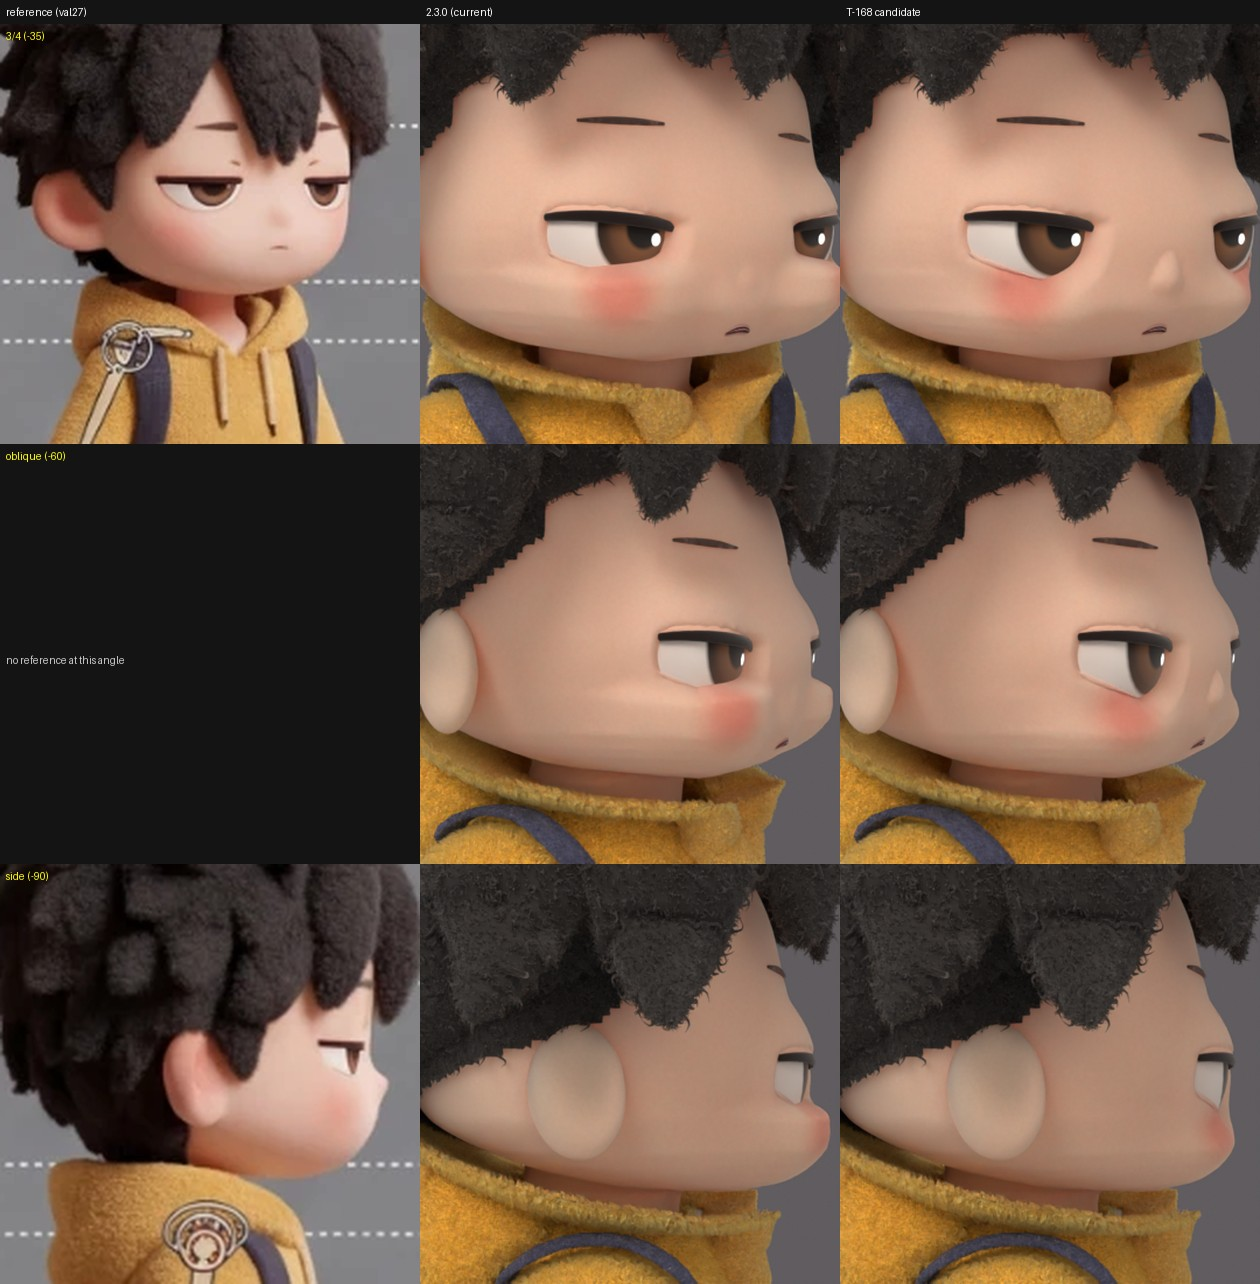
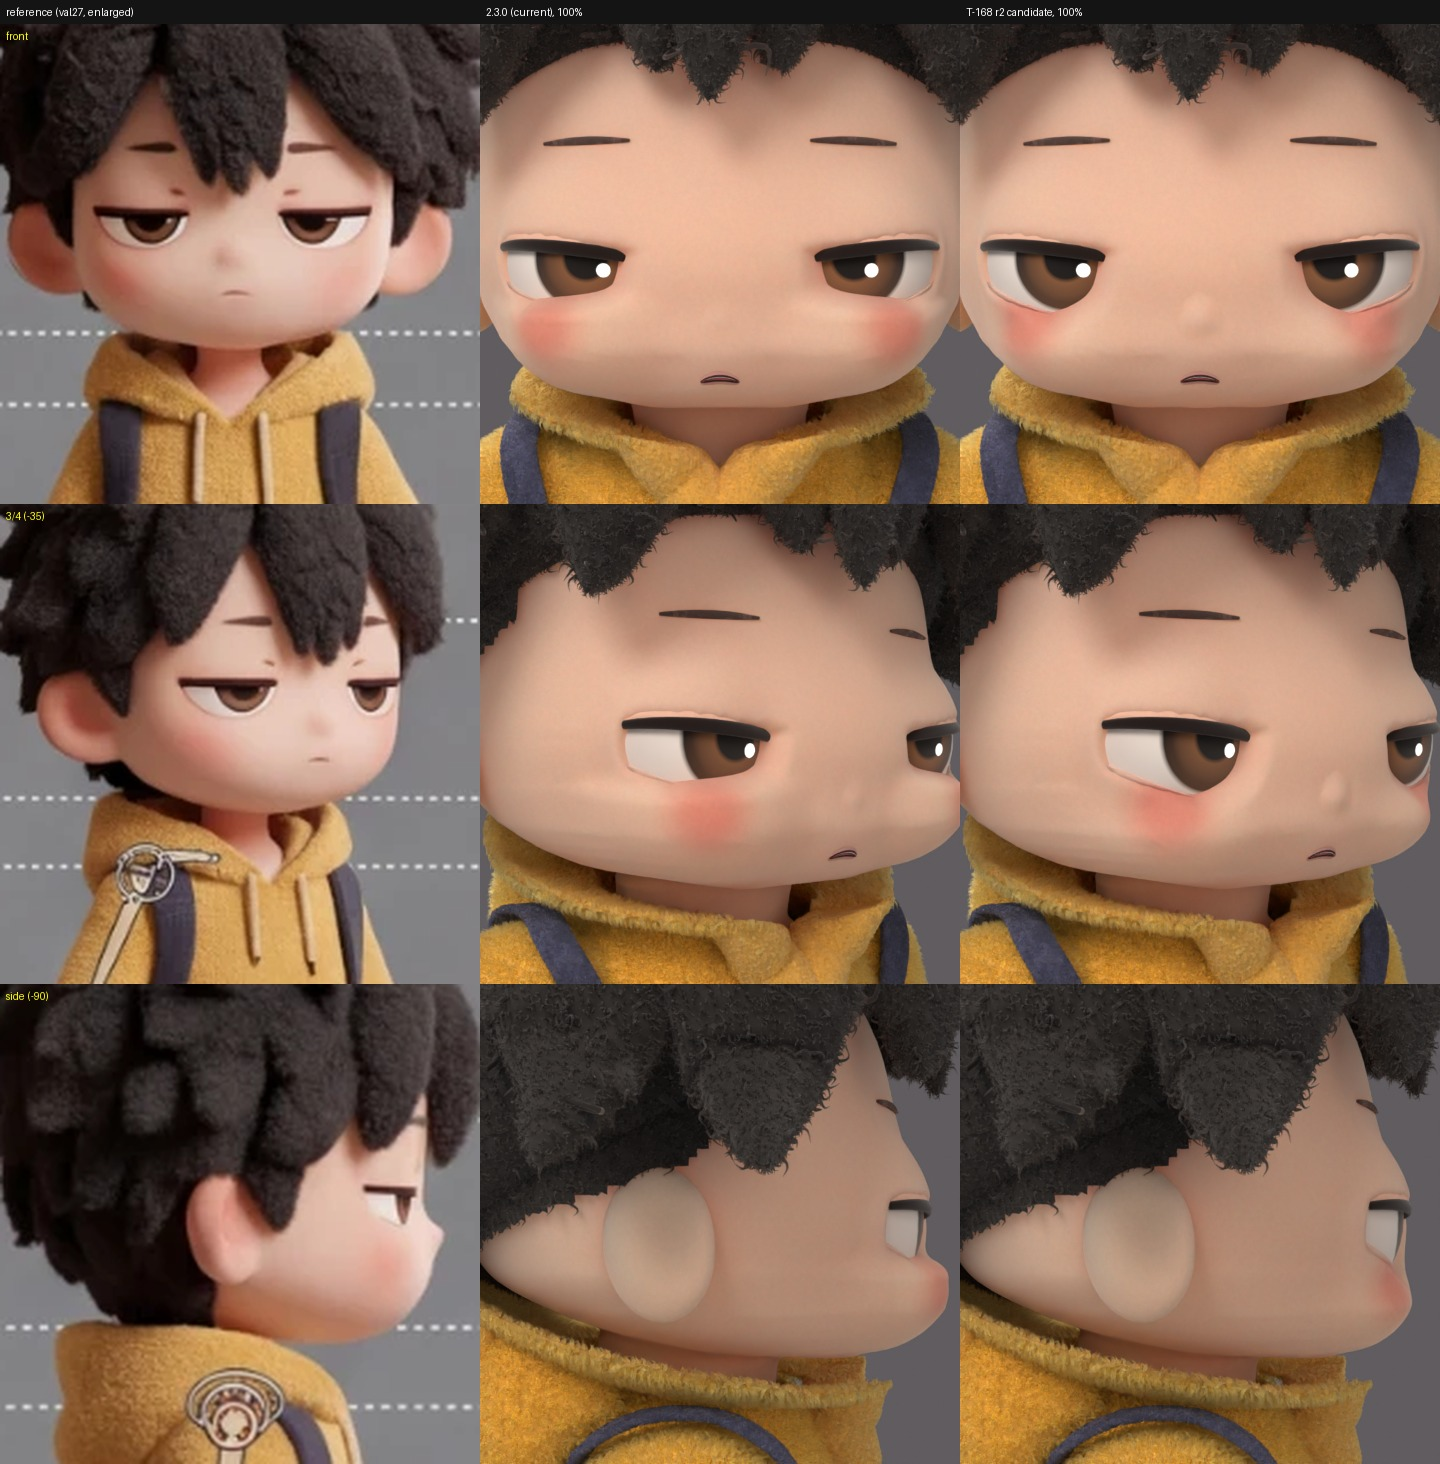
T-168 r2: strict sheet, 100% close-ups (front, 3/4, side) and README
Claude-Session: https://claude.ai/code/session_01NPjxePRrEKBwUxehDu9SQD

diff --git a/docs/evaluation/characters/T-168/README.md b/docs/evaluation/characters/T-168/README.md
@@ -28,35 +28,39 @@ Workbench at yaw -35 / -60 / -90 (`diagnosis/diag.py`); silhouette extent of the
 ## 2. Change
 Generator (opt-in, defaults unchanged):
 - `pipeline/charsys/face_v3/lower_face.py`: `cheek_pad_top_fade_m` (default 0.015 = the previous constant).
-- `pipeline/charsys/face_features.py` `build_nose`: nose type `upturned` (tip with a soft bridge above and a short
+- `pipeline/charsys/face_features.py` `build_nose` only: nose type `upturned` (tip with a soft bridge above and a short
   underside; `size_m, height_m, bridge_m, under_m, tip_up_m, bridge_narrow, tip_power`).
-- `pipeline/charsys/tests/test_face_t168.py` (new; **not registered** in tools/check_all.py, outside my write-set).
+- `pipeline/charsys/tests/test_face_t168.py` (new), registered in `tools/check_all.py` (approved ~15:30 CET).
 
-Candidate data `boy_yellow_hoodie.T-168.override.json` (on the 2.3.0 spec):
+Candidate data `boy_yellow_hoodie.T-168.override.json` (on the 2.3.0 spec), r2 after the owner review ~15:30 CET:
 - cheek pad 16 -> 10 mm, radius 70 -> 60 mm, centre 35 -> 45 mm below the eye, top fade 15 -> 45 mm;
-  cheek_fullness 6 -> 4 mm; `lower_face_recede_m` 8 mm from 25 mm below the eye (existing face.shape option; the
-  head profile rows did not need to change).
-- nose `small_round` 9 / 1.6 mm -> `upturned` 13 mm half width, 5.5 mm high.
+  cheek_fullness 6 -> 4 mm; `lower_face_recede_m` 3 mm from 30 mm below the eye (r1: 8 mm from 25 mm; existing
+  face.shape option, data only; the head profile rows did not need to change).
+- nose `small_round` 9 / 1.6 mm -> `upturned` as a soft nub: 10 mm half width, 3.5 mm high, round dome
+  (r1: 13 / 5.5 mm, read as a cone at 3/4).
 
-## 3. Evidence
+## 3. Evidence (r2)
 - Strict sheet: `boy_2.3.0_vs_T-168_strict.jpg` (recipe `boy_2.3.0_vs_T-168.recipe.json`, preview passed, Cycles 16 spp).
-- Side / oblique / 3/4 close-ups, same rig and settings: `boy_closeups_2.3.0_vs_T-168.jpg`
-  (rows: 3/4 -35, oblique -60, side -90; columns: reference, 2.3.0, T-168).
-- Front: face layout, eyes, mouth, hair unchanged; cheeks slightly slimmer low down; the nose is now visible.
+- 100 % close-ups, same rig and settings, 480 px renders pasted unscaled: `boy_closeups_2.3.0_vs_T-168.jpg`
+  (rows: front, 3/4 -35, side -90; columns: val27 reference (enlarged, 210-240 px source), 2.3.0, T-168 r2).
+- Reading: the ledge under the eye is gone at 3/4; the side profile has no shelf and keeps a round mouth/chin line
+  behind a small nose tip, close to val27_side_right; front: layout, eyes, mouth, hair unchanged, cheeks slightly
+  slimmer low down, nose a soft nub. Remaining difference to the refs: the boy's lower face is still deeper
+  (chin further forward) than val27 in the side view; that is head data, not changed here.
+- The table in section 1 was measured on the r1 shape (recede 8 mm); r2 only changes the recede and the nose.
 
 ## 4. Tests
-- `python3 pipeline/charsys/tests/test_face_t168.py --blender blender`: 11/11.
-- Default unchanged: 2.3.0 rebuilt with the edited code vs a build from the unedited T-155 branch,
-  `mesh_hash_strict.py`: 222 of 223 objects identical (head/body_skin included); `lid_upper.R` differs, which is the
-  known run-to-run lid drift (T-158; the T-155 branch build does not have the deterministic-build fix), not this code
-  (the new branches are not reached without the new keys).
-- test_face_r5 9/9, test_guard_allowlist 25/25. test_face_v4 15/17: the two failures ("candidate is on the current
-  version", 2.2.0 vs 2.3.0) are already there at the merge commit 7fdc278, before any T-168 edit.
+- `test_face_t168.py --blender blender`: 11/11. After merging origin/t-159-claude-ears (3c306ea): test_ears_shape 8/8,
+  test_face_front_fade 14/14, test_face_r5 15/15, test_guard_allowlist 25/25, blender_inventory + T-127 shard tests pass.
+- Merge does not change the candidate: r2 candidate built before and after the T-159 merge, `mesh_hash_strict.py`:
+  223/223 objects identical.
+- Default unchanged: 2.3.0 rebuilt with the edited code vs a build from the unedited T-155 branch: 222 of 223 objects
+  identical (head/body_skin included); `lid_upper.R` differs = the known run-to-run lid drift of the T-155 branch
+  build (no deterministic-build fix there), not confirmed by a same-code rebuild.
+- test_face_v4 15/17: the two failures ("candidate is on the current version", 2.2.0 vs 2.3.0) are already there at
+  the T-155 merge commit 7fdc278, before any T-168 edit.
 
 ## 5. Not done / limits
 - Fidelity score, full ctest and CI not run. No golden, threshold or test loosened.
-- Nose shape is a first candidate (tip a little pointed from the front); it is spec data and easy to tune.
-- Eyes/lids (T-156) and head/ears/temple (T-159) untouched.
-- Close-ups, honest reading: the ledge under the eye is gone at -35 and -60 and the side shelf is gone; in the side
-  view the lower face now recedes a little more than val27_side_right (the reference keeps a rounder mouth/cheek
-  line just behind the nose tip) and the nose tip is sharper than the reference's soft nub. Both are override values.
+- The sheet and close-ups were rendered before the T-159 merge (geometry identical after it, see above).
+- Not touched: shape_face_v2, build_ears and the ears (T-159), face_v3/lids.py (T-156).
